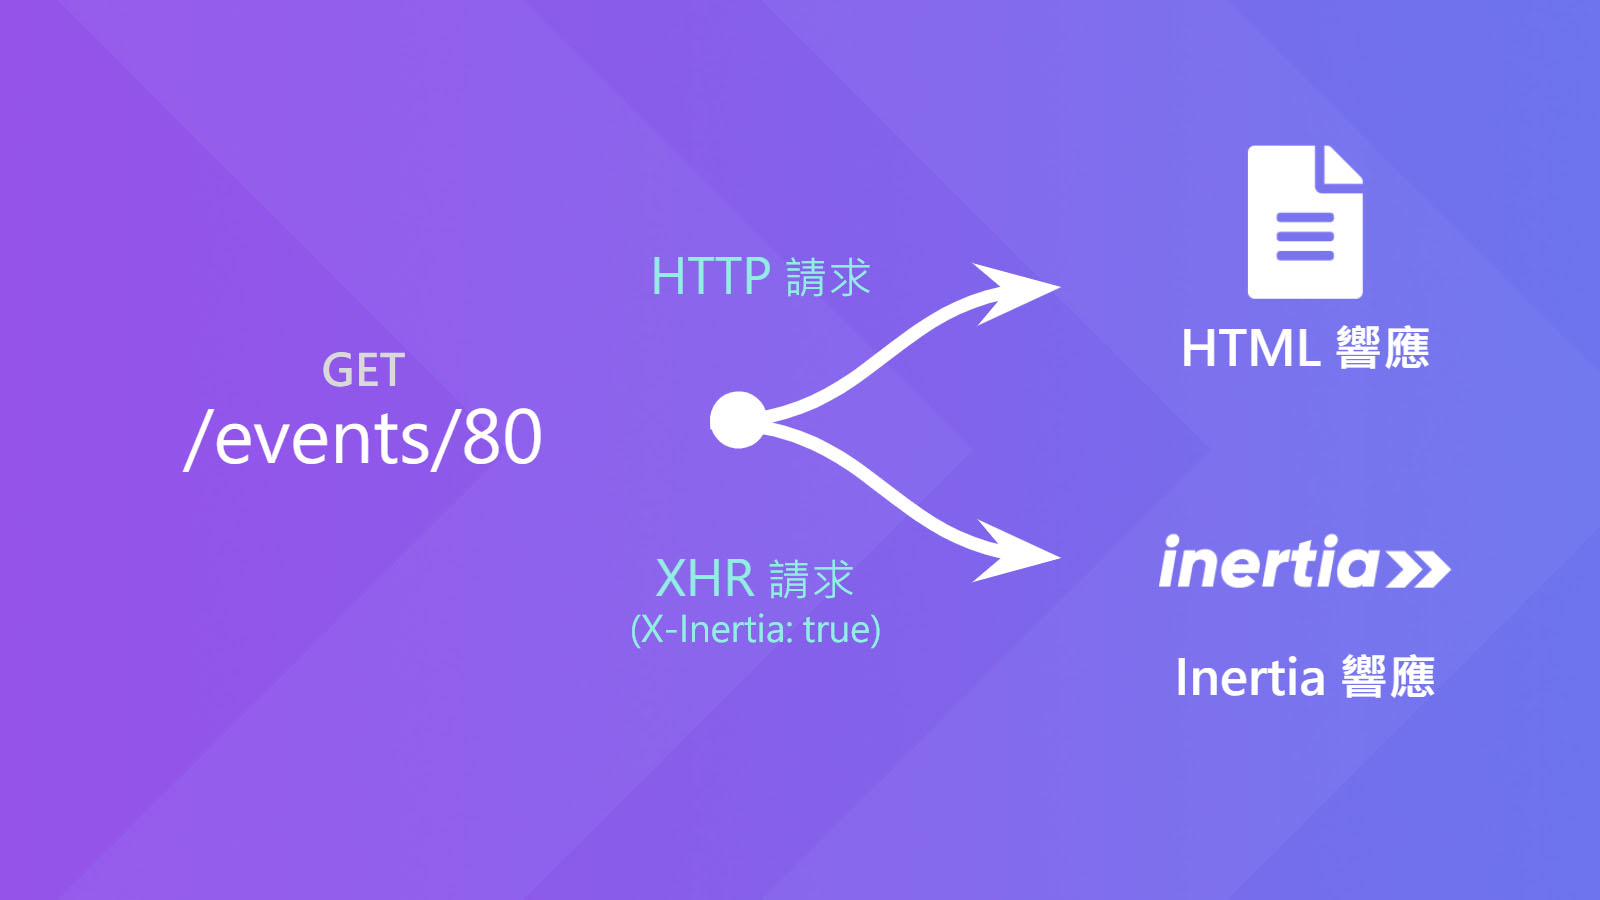
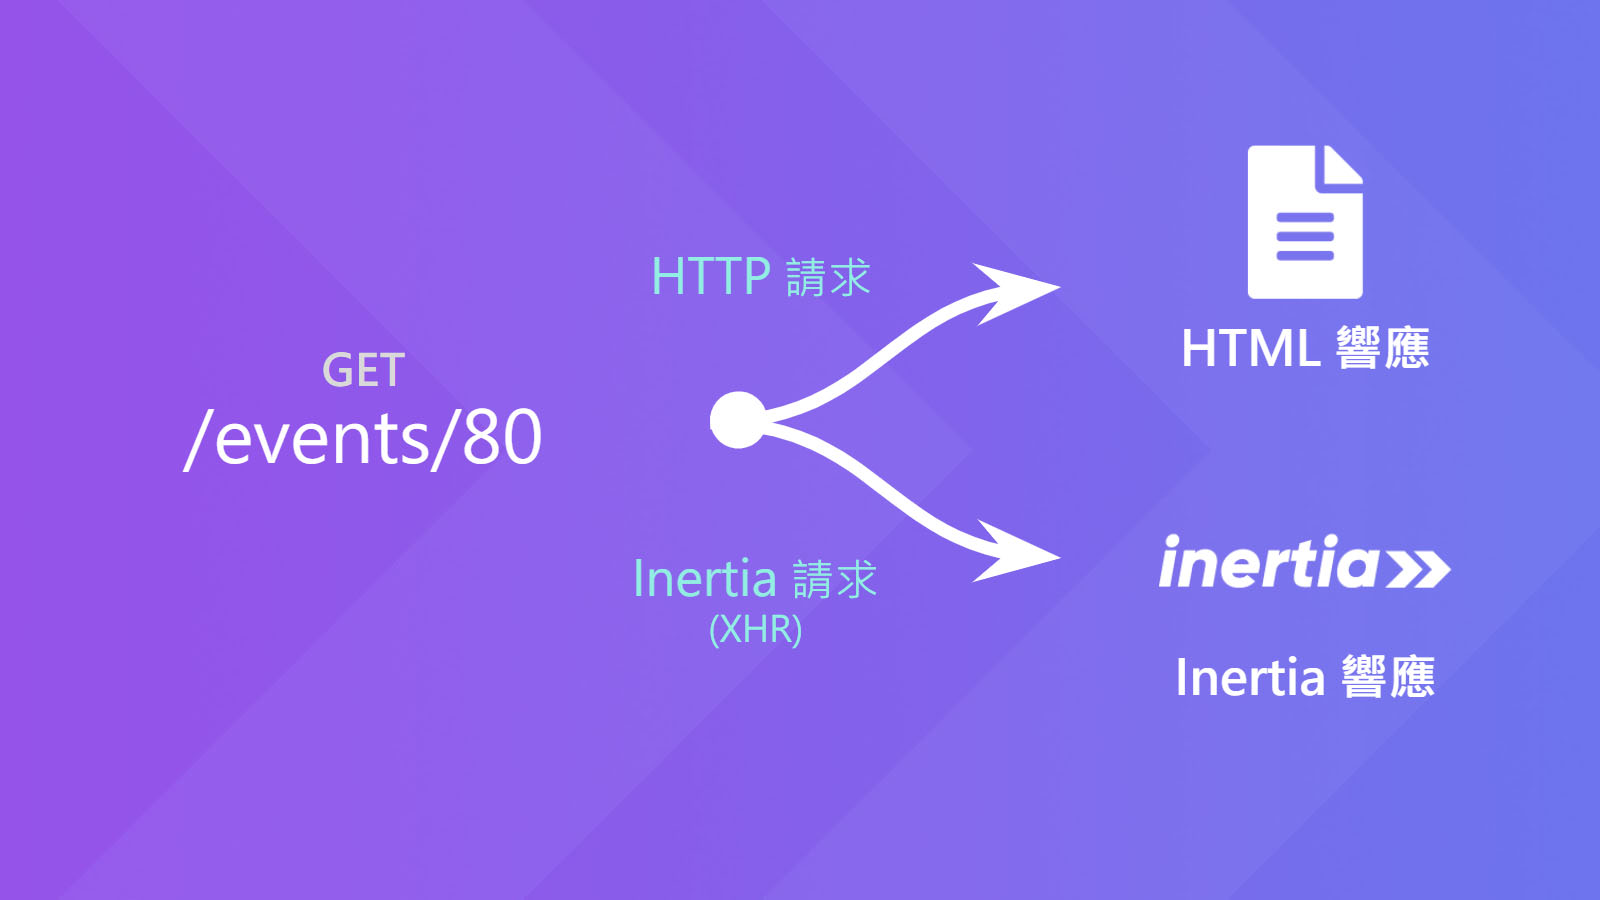
Update day 02

Changed region(s): [[0.375, 0.6222, 0.5625, 0.7156]]

diff --git a/docs/Day_02.md b/docs/Day_02.md
@@ -6,7 +6,7 @@
 
 那中間勢必要有溝通的規則，沒錯，那就是接下來要來介紹的——**Inertia 協議**。
 
-> 看到這裡你會發現，現在有 **Inertia.js** 和 **Inertia** 兩種名稱，我個人的簡單區分的方式：**Inertia** 是一套嶄新的網頁架構，其中包含 HTTP 協議和需要遵守的規則；**Inertia.js** 是實現其功能的前端套件。但官方文檔中對兩個名稱的的界線似乎也很模糊。大概了解不同之處就可以了。
+> 看到這裡你會發現，現在有 **Inertia.js** 和 **Inertia** 兩種名稱，我個人的簡單區分的方式：**Inertia** 是這套嶄新的網頁架構，其中包含協議和需要遵守的規則；**Inertia.js** 是實現其功能的前端套件。但官方文檔中對兩個名稱的的界線似乎也很模糊。大概了解不同之處就可以了。
 
 ## Inertia 協議
 
@@ -57,7 +57,7 @@ Content-Type: text/html; charset=utf-8
 
 然後要瀏覽其他頁面時，點擊頁面中的 `<inertia-link>` 組件，會送出 **Inertia 請求** 取得 **Inertia Page 物件**，Inertia 就可以不刷新頁面，自動替換出新的頁面內容，達到 SPA 般舒適的瀏覽體驗。
 
-要如何發送「正規」的 **Inertia 請求** 呢？首先必須要將 `X-Inertia` Header 設為 `true`，其次是必須響應 **Inertia Page 物件**，這就是 Inertia 的規則。
+要如何發送「正規」的 **Inertia 請求** 呢？首先必須要將 `X-Inertia` Header 設為 `true`，其次是必須回傳 **Inertia Page 物件**，這就是 Inertia 的規則。
 
 > 同時也可以設定其他 `X-Inertia` 開頭的 Header，例如像下面的 `X-Inertia-Version` 和 `X-Inertia-Partial-Data` 等，在後面的篇章會介紹到。
 
@@ -92,18 +92,18 @@ Content-Type: application/json
 
 ### Inertia Page 物件
 
-剛才講了那麼多次的 `Inertia Page 物件`，其實就是上面的那個 JSON 物件。顧名思義，`Inertia Page 物件` 裝的就是頁面的資料。在 Inertia 的規則中，必須要有以下屬性：
+剛才講了那麼多次的 **Inertia Page 物件**，其實就是上面的那個 JSON 物件。顧名思義，**Inertia Page 物件** 裝的就是頁面的資料。在 Inertia 的規則中，必須要有以下屬性：
 
 * component：前端組件名稱
 * props：前端組件 props (資料)
 * url：頁面 URL
 * version：當前資產版本
 
-`Inertia Page 物件` 也就是可以用兩種發送請求並渲染頁面的關鍵，在 Inertia 中扮演著非常重要的角色。
+**Inertia Page 物件** 也就是可以用兩種發送請求並渲染頁面的關鍵，在 Inertia 中扮演著非常重要的角色。
 
 ## Inertia 套件 (Adapters)
 
-即使有了這些規則，但如果沒有實作，那也只是紙上談兵罷了。因此 Inertia 官方提供了數套適用前端框架和後端框架的套件：
+有了這些規則後，我們就可以在我們的前端框架和後端框架實作出來，但如果每次都要實作才能開發專案...也太累了吧。因此 Inertia 官方提供了數套適用前端框架和後端框架的套件：
 
 * [React](https://github.com/inertiajs/inertia/tree/master/packages/inertia-react)
 * [Vue.js](https://github.com/inertiajs/inertia/tree/master/packages/inertia-vue)
@@ -113,14 +113,15 @@ Content-Type: application/json
 
 > ㄝ...那個 Inertia.js 怎麼消失了呢？其實它還在。前端的 Inertia 套件都是包裝過 Inertia.js 並針對各個框架適配。
 
-看到這裡，應該懂了吧？只要一個前端和一個後端，隨你怎麼搭，都可以建構 Inertia 架構的 Web 應用！如果你想要用其他框架，可以參考[社區維護的 Inertia 套件](https://inertiajs.com/installation#community-adapters)。
+只要一個前端和一個後端，隨你怎麼搭，都可以建構 Inertia 架構的 SPA 應用！如果你想要用其他框架，可以參考[社區維護的 Inertia 套件](https://inertiajs.com/installation#community-adapters)。
 
 ## 總結
 
-到此講完了基本的 Inertia.js 的架構、概念了，如果還是不懂沒關係，之後實作完之後再回來看本篇會更清楚。下一篇開始正式進入開發網站了，請先準備好可以運行 Laravel 的環境吧！還有，因為有個套件的限制，PHP 要使用 7.4 版，要注意一下。
+到此講完了基本的 Inertia.js 的架構、概念了，如果還是不懂沒關係，之後實作完之後再回來看本篇會更清楚。下一篇開始正式進入開發網站了，請先準備好可以運行 Laravel 的環境吧！如果有開發過 Laravel 應用應該都知道，需要準備 PHP、Composer、Git、Node.js(NPM) 等必備的套件。還有，因為有個套件的限制，PHP 要使用 7.4 版，要注意一下。
 
 ## 參考資料
 
 * [How it works - Inertia.js](https://inertiajs.com/how-it-works)
 * [The protocol - Inertia.js](https://inertiajs.com/the-protocol)
 * [Installation - Inertia.js](https://inertiajs.com/installation)
+* [Inertia.js banner](https://github.com/inertiajs/inertia)
